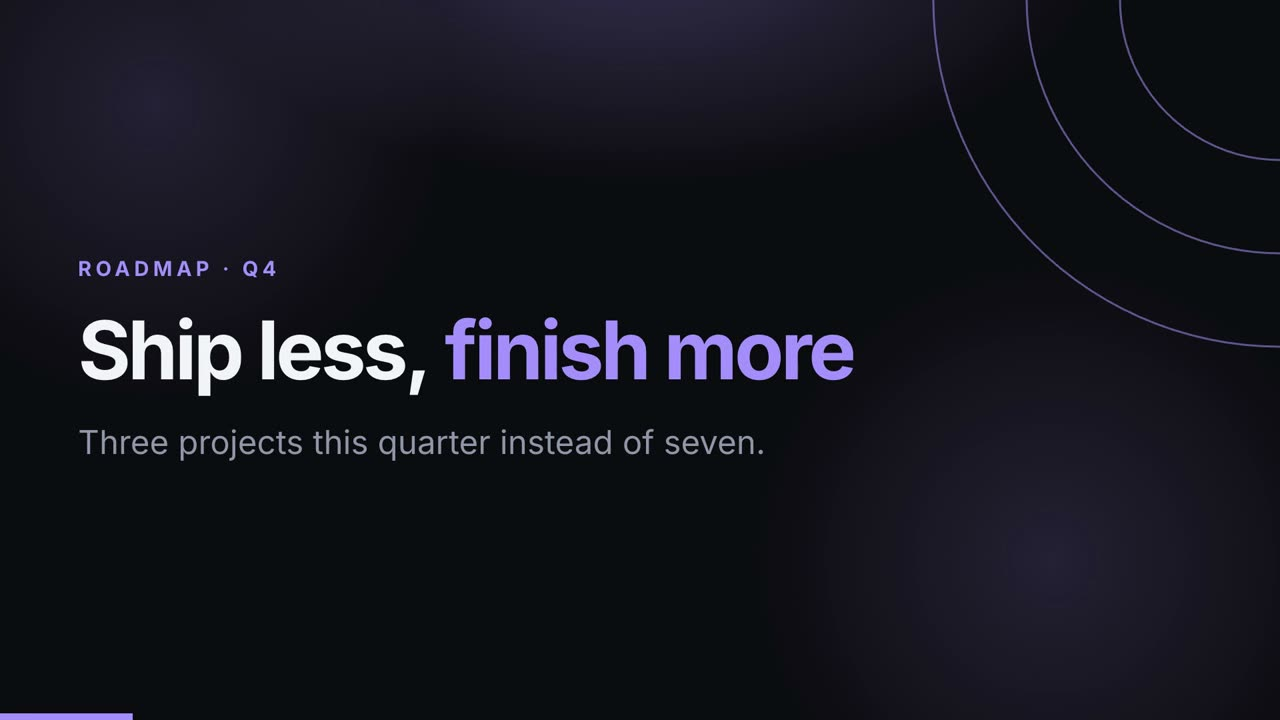
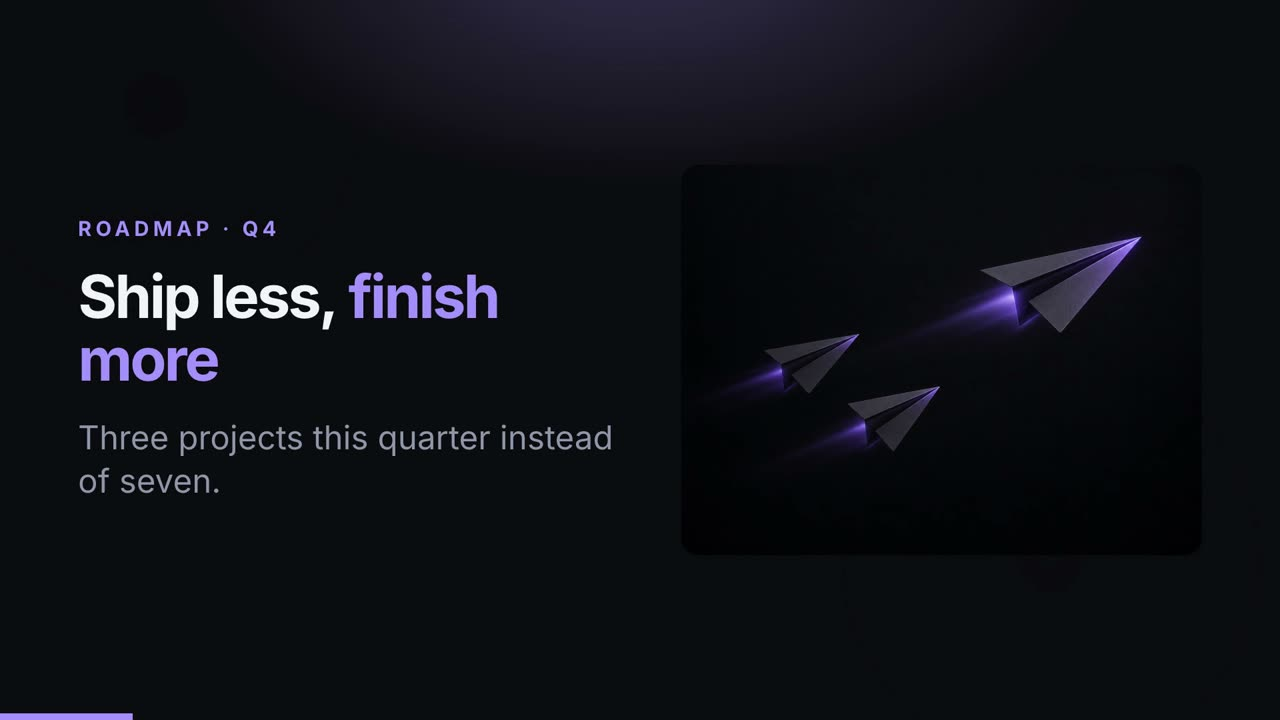
Examples now include a title picture drawn in each style, and hand-drawn chart lines

diff --git a/skills/motionkit-starter/examples/midnight/index.html b/skills/motionkit-starter/examples/midnight/index.html
@@ -13,6 +13,7 @@
       /* Style tokens: Midnight */
       :root {--bg: #0b0c10;--bg2: #0b0c10;--ink: #f2f3f7;--accent: #a596ff;--muted: #9197aa;--surface: #14161c;--head: "Inter", sans-serif;--body: "Inter", sans-serif;--weight: 700;--radius: 14px;}
       :root { --on-accent: #0b0c10; --glow: rgba(0, 0, 0, 0.14); }
+      .stage.has-pic h1 { font-size: 87px; } .stage.has-pic h2 { font-size: 62px; }
 
       body { margin: 0; background: var(--bg); color: var(--ink); font-family: var(--body); }
       #root { position: relative; width: 100%; height: 100%; overflow: hidden; }
@@ -71,6 +72,21 @@
       .side p { font-size: 46px; max-width: none; color: var(--ink); margin: 0; }
       .side .tick { position: absolute; right: 30px; top: 30px; width: 64px; height: 64px; color: var(--accent); }
       .vs { position: absolute; left: 50%; top: 50%; width: 96px; height: 96px; margin: -48px 0 0 -48px; border-radius: 50%; display: flex; align-items: center; justify-content: center; background: var(--accent); color: var(--on-accent); font-size: 34px; font-weight: 700; box-sizing: border-box; }
+      .stage.has-pic { flex-direction: row; align-items: center; gap: 84px; text-align: left; }
+      .stage.has-pic.pic-left { flex-direction: row-reverse; }
+      .pic-text { flex: 1; min-width: 0; display: flex; flex-direction: column; justify-content: center; gap: 36px; align-items: flex-start; }
+      .pic { flex: none; width: 760px; height: 570px; border-radius: 26px; overflow: hidden; box-shadow: 0 34px 90px rgba(0, 0, 0, 0.22); box-sizing: border-box; }
+      .pic.is-wide { width: 900px; height: 675px; }
+      .pic img { display: block; width: 100%; height: 100%; object-fit: cover; }
+      .stage.has-pic .quote { font-size: 64px; }
+      .stage.has-pic p { margin: 0; }
+      .line { display: block; width: 100%; height: 520px; overflow: visible; }
+      .line .trace { fill: none; stroke: var(--accent); stroke-width: 8; stroke-linecap: round; stroke-linejoin: round; stroke-dasharray: 1; }
+      .line .base { stroke: var(--muted); stroke-width: 3; opacity: 0.5; }
+      .line .dot { fill: var(--bg); stroke: var(--accent); stroke-width: 6; }
+      .line .dot.is-key { fill: var(--accent); }
+      .line text { fill: var(--ink); font-family: var(--body); font-size: 36px; font-weight: 700; text-anchor: middle; }
+      .line text.nm { fill: var(--muted); font-size: 28px; font-weight: 400; }
       .mark { display: block; height: 150px; font-family: var(--head); font-weight: var(--weight); font-size: 320px; line-height: 1; color: var(--accent); }
       .cta { display: block; width: fit-content; padding: 22px 44px; border-radius: 999px; background: var(--accent); color: var(--on-accent); font-size: 44px; font-weight: 700; box-sizing: border-box; }
 
@@ -88,11 +104,13 @@
       <div id="frame"></div>
 
       <section id="s1-title" class="clip" data-start="0" data-duration="4.5" data-track-index="1">
-        <svg class="orn" viewBox="0 0 640 640" aria-hidden="true"><circle pathLength="1" cx="640" cy="0" r="240"/><circle pathLength="1" cx="640" cy="0" r="380"/><circle pathLength="1" cx="640" cy="0" r="520"/></svg>
-        <div class="stage" id="s1-title-stage">
+        <div class="stage has-pic" id="s1-title-stage">
+          <div class="pic-text">
           <div class="label in">Roadmap · Q4</div>
           <h1 class="reveal"><span class="w"><span class="wi">Ship</span></span> <span class="w"><span class="wi">less,</span></span> <span class="w"><span class="wi hl">finish</span></span> <span class="w"><span class="wi hl">more</span></span></h1>
           <p class="in">Three projects this quarter instead of seven.</p>
+          </div>
+          <div class="pic" id="s1-title-pic"><img src="images/s1-title.png" alt=""></div>
         </div>
       </section>
 
@@ -108,12 +126,14 @@
       <section id="s3-chart" class="clip" data-start="9.5" data-duration="7.1" data-track-index="1">
         <div class="stage" id="s3-chart-stage">
           <h2 class="reveal"><span class="w"><span class="wi">Cycle</span></span> <span class="w"><span class="wi">time</span></span> <span class="w"><span class="wi">per</span></span> <span class="w"><span class="wi">issue</span></span> <span class="w"><span class="wi">(days)</span></span></h2>
-          <div class="chart">
-            <div class="col"><div class="value">9</div><span class="bar" style="height: 100%"></span><div class="name">Jul</div></div>
-            <div class="col"><div class="value">8</div><span class="bar" style="height: 89%"></span><div class="name">Aug</div></div>
-            <div class="col"><div class="value">6</div><span class="bar" style="height: 67%"></span><div class="name">Sep</div></div>
-            <div class="col is-key-col"><div class="value">4</div><span class="bar is-key" style="height: 44%"></span><div class="name">Oct</div></div>
-          </div>
+          <svg class="line" viewBox="0 0 1640 520" aria-hidden="true">
+            <line class="base" x1="40" y1="430" x2="1600" y2="430"/>
+            <path class="trace" pathLength="1" d="M90 100 L577 133 L1063 200 L1550 267"/>
+            <g class="pt"><circle class="dot" cx="90" cy="100" r="13"/><text x="90" y="66">9</text><text class="nm" x="90" y="488">Jul</text></g>
+            <g class="pt"><circle class="dot" cx="577" cy="133" r="13"/><text x="577" y="99">8</text><text class="nm" x="577" y="488">Aug</text></g>
+            <g class="pt"><circle class="dot" cx="1063" cy="200" r="13"/><text x="1063" y="166">6</text><text class="nm" x="1063" y="488">Sep</text></g>
+            <g class="pt"><circle class="dot is-key" cx="1550" cy="267" r="18"/><text x="1550" y="233">4</text><text class="nm" x="1550" y="488">Oct</text></g>
+          </svg>
         </div>
       </section>
 
@@ -181,7 +201,9 @@
       tl.fromTo("#s1-title-stage", { scale: 1 }, { scale: 1.035, duration: 4.5, ease: "none" }, 0);
       heading("#s1-title .reveal", 0.2);
       if (document.querySelector("#s1-title .in")) enter("#s1-title .in", 0.5);
-      draw("#s1-title .orn circle", 0.1, 1.6);
+      tl.fromTo("#s1-title-pic", { clipPath: "inset(0 0 100% 0)" }, { clipPath: "inset(0 0 0% 0)", duration: 0.9, ease: "power3.inOut" }, 0.3);
+      tl.fromTo("#s1-title-pic img", { scale: 1.18 }, { scale: 1.04, duration: 4.5, ease: "none" }, 0);
+      if (document.querySelector("#s1-title .orn")) draw("#s1-title .orn circle", 0.1, 1.6);
       tl.fromTo("#s1-title-stage", { opacity: 1 }, { opacity: 0, duration: 0.4, ease: "power2.in", immediateRender: false }, 4.1);
 
       // s2-stat: 4.5s to 9.5s
@@ -200,9 +222,8 @@
       tl.fromTo("#s3-chart-stage", { scale: 1 }, { scale: 1.035, duration: 7.1, ease: "none" }, 9.5);
       heading("#s3-chart .reveal", 9.7);
       if (document.querySelector("#s3-chart .in")) enter("#s3-chart .in", 10);
-      tl.fromTo("#s3-chart .bar", { scaleY: 0 }, { scaleY: 1, duration: 0.9, ease: "power3.out", stagger: 0.12 }, 10.3);
-      tl.fromTo("#s3-chart .name", { opacity: 0 }, { opacity: 1, duration: 0.4, stagger: 0.12 }, 10.3);
-      tl.fromTo("#s3-chart .value", { opacity: 0, y: 24 }, { opacity: 1, y: 0, duration: 0.5, ease: "power2.out", stagger: 0.12 }, 11);
+      draw("#s3-chart .trace", 10.3, 1.8);
+      tl.fromTo("#s3-chart .pt", { opacity: 0 }, { opacity: 1, duration: 0.35, stagger: 0.4 }, 10.4);
       tl.fromTo("#s3-chart-stage", { opacity: 1 }, { opacity: 0, duration: 0.4, ease: "power2.in", immediateRender: false }, 16.2);
 
       // s4-steps: 16.6s to 23.5s
@@ -224,7 +245,7 @@
       tl.fromTo("#s6-takeaway-stage", { scale: 1 }, { scale: 1.035, duration: 5, ease: "none" }, 29.7);
       heading("#s6-takeaway .reveal", 29.9);
       if (document.querySelector("#s6-takeaway .in")) enter("#s6-takeaway .in", 30.2);
-      draw("#s6-takeaway .orn circle", 29.8, 1.6);
+      if (document.querySelector("#s6-takeaway .orn")) draw("#s6-takeaway .orn circle", 29.8, 1.6);
 
       window.__timelines["main"] = tl;
     </script>

diff --git a/skills/motionkit-starter/examples/paper-editorial/index.html b/skills/motionkit-starter/examples/paper-editorial/index.html
@@ -14,6 +14,8 @@
       /* Style tokens: Paper Editorial */
       :root {--bg: #f4efe6;--bg2: #f4efe6;--ink: #1f1b16;--accent: #b4532a;--muted: #857b6d;--surface: #e6ddcd;--head: "Fraunces", serif;--body: "Inter", sans-serif;--weight: 600;--radius: 4px;}
       :root { --on-accent: #ffffff; --glow: rgba(255, 255, 255, 0.5); }
+      .stage.has-pic h1 { font-size: 104px; } .stage.has-pic h2 { font-size: 72px; }
+      .line .trace, .line .base, .bar, .rule, .side, .card, .step { filter: url(#sketch); }
 
       body { margin: 0; background: var(--bg); color: var(--ink); font-family: var(--body); }
       #root { position: relative; width: 100%; height: 100%; overflow: hidden; }
@@ -72,6 +74,21 @@
       .side p { font-size: 46px; max-width: none; color: var(--ink); margin: 0; }
       .side .tick { position: absolute; right: 30px; top: 30px; width: 64px; height: 64px; color: var(--accent); }
       .vs { position: absolute; left: 50%; top: 50%; width: 96px; height: 96px; margin: -48px 0 0 -48px; border-radius: 50%; display: flex; align-items: center; justify-content: center; background: var(--accent); color: var(--on-accent); font-size: 34px; font-weight: 700; box-sizing: border-box; }
+      .stage.has-pic { flex-direction: row; align-items: center; gap: 84px; text-align: left; }
+      .stage.has-pic.pic-left { flex-direction: row-reverse; }
+      .pic-text { flex: 1; min-width: 0; display: flex; flex-direction: column; justify-content: center; gap: 36px; align-items: flex-start; }
+      .pic { flex: none; width: 760px; height: 570px; border-radius: 26px; overflow: hidden; box-shadow: 0 34px 90px rgba(0, 0, 0, 0.22); box-sizing: border-box; }
+      .pic.is-wide { width: 900px; height: 675px; }
+      .pic img { display: block; width: 100%; height: 100%; object-fit: cover; }
+      .stage.has-pic .quote { font-size: 64px; }
+      .stage.has-pic p { margin: 0; }
+      .line { display: block; width: 100%; height: 520px; overflow: visible; }
+      .line .trace { fill: none; stroke: var(--accent); stroke-width: 8; stroke-linecap: round; stroke-linejoin: round; stroke-dasharray: 1; }
+      .line .base { stroke: var(--muted); stroke-width: 3; opacity: 0.5; }
+      .line .dot { fill: var(--bg); stroke: var(--accent); stroke-width: 6; }
+      .line .dot.is-key { fill: var(--accent); }
+      .line text { fill: var(--ink); font-family: var(--body); font-size: 36px; font-weight: 700; text-anchor: middle; }
+      .line text.nm { fill: var(--muted); font-size: 28px; font-weight: 400; }
       .mark { display: block; height: 150px; font-family: var(--head); font-weight: var(--weight); font-size: 320px; line-height: 1; color: var(--accent); }
       .cta { display: block; width: fit-content; padding: 22px 44px; border-radius: 999px; background: var(--accent); color: var(--on-accent); font-size: 44px; font-weight: 700; box-sizing: border-box; }
 
@@ -85,13 +102,16 @@
       <div id="backdrop"></div>
       <div id="decor"><div class="blob" id="blob-a" style="left: -260px; top: -320px"></div><div class="blob" id="blob-b" style="left: 1180px; top: 420px"></div></div>
       <div id="frame"></div>
+      <svg width="0" height="0" style="position: absolute" aria-hidden="true"><filter id="sketch" x="-5%" y="-5%" width="110%" height="110%"><feTurbulence type="fractalNoise" baseFrequency="0.018" numOctaves="2" seed="7" result="n"/><feDisplacementMap in="SourceGraphic" in2="n" scale="9" xChannelSelector="R" yChannelSelector="G"/></filter></svg>
 
       <section id="s1-title" class="clip" data-start="0" data-duration="4.5" data-track-index="1">
-        <svg class="orn" viewBox="0 0 640 640" aria-hidden="true"><circle pathLength="1" cx="640" cy="0" r="240"/><circle pathLength="1" cx="640" cy="0" r="380"/><circle pathLength="1" cx="640" cy="0" r="520"/></svg>
-        <div class="stage" id="s1-title-stage">
+        <div class="stage has-pic" id="s1-title-stage">
+          <div class="pic-text">
           <div class="label in">Field notes</div>
           <h1 class="reveal"><span class="w"><span class="wi">Why</span></span> <span class="w"><span class="wi hl">short</span></span> <span class="w"><span class="wi hl">meetings</span></span> <span class="w"><span class="wi">win</span></span></h1>
           <p class="in">What one team learned from cutting every meeting to 25 minutes.</p>
+          </div>
+          <div class="pic" id="s1-title-pic"><img src="images/s1-title.png" alt=""></div>
         </div>
       </section>
 
@@ -180,7 +200,9 @@
       tl.fromTo("#s1-title-stage", { scale: 1 }, { scale: 1.035, duration: 4.5, ease: "none" }, 0);
       heading("#s1-title .reveal", 0.2);
       if (document.querySelector("#s1-title .in")) enter("#s1-title .in", 0.5);
-      draw("#s1-title .orn circle", 0.1, 1.6);
+      tl.fromTo("#s1-title-pic", { clipPath: "inset(0 0 100% 0)" }, { clipPath: "inset(0 0 0% 0)", duration: 0.9, ease: "power3.inOut" }, 0.3);
+      tl.fromTo("#s1-title-pic img", { scale: 1.18 }, { scale: 1.04, duration: 4.5, ease: "none" }, 0);
+      if (document.querySelector("#s1-title .orn")) draw("#s1-title .orn circle", 0.1, 1.6);
       tl.fromTo("#s1-title-stage", { opacity: 1 }, { opacity: 0, duration: 0.4, ease: "power2.in", immediateRender: false }, 4.1);
 
       // s2-stat: 4.5s to 9.5s
@@ -223,7 +245,7 @@
       tl.fromTo("#s6-takeaway-stage", { scale: 1 }, { scale: 1.035, duration: 5, ease: "none" }, 29.7);
       heading("#s6-takeaway .reveal", 29.9);
       if (document.querySelector("#s6-takeaway .in")) enter("#s6-takeaway .in", 30.2);
-      draw("#s6-takeaway .orn circle", 29.8, 1.6);
+      if (document.querySelector("#s6-takeaway .orn")) draw("#s6-takeaway .orn circle", 29.8, 1.6);
 
       window.__timelines["main"] = tl;
     </script>

diff --git a/README.md b/README.md
@@ -33,7 +33,7 @@ For Codex use `~/.codex/skills/`, for Cursor `~/.cursor/skills/`. Restart the ag
 ## What you get
 
 - **Two complete styles**: Paper Editorial (essays, explainers, thought pieces); Midnight (developer products, roadmaps, changelogs). Each has its fonts, colour tokens, layout rules and motion profile.
-- **A working 28-second example in each style** with six scene types: title, big number that counts up, bar chart, steps, quote and takeaway. Each renders as is.
+- **A working example video in each style**, with a title picture drawn in that style, with six scene types: title, big number that counts up, bar chart, steps, quote and takeaway. Each renders as is.
 - **Composition rules** that keep the agent's output renderable: one paused timeline, no CSS transforms fighting tweens, scenes that run back to back.
 - **A source check**: `tools/check.mjs` fails the build when a number on screen is not in your document, or is written differently from how your document writes it.
 
